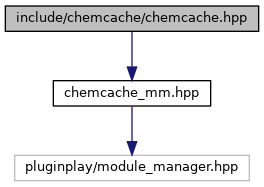
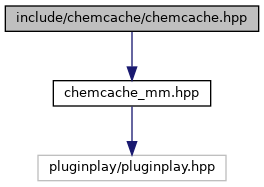
deploy: f8950fc84023ece8e662c6afa4f4c176a53c98dd

Changed region(s): [[0.0303, 0.8289, 0.9697, 0.9893]]

diff --git a/chemcache_cxx_api/chemcache__mm_8hpp_source.html b/chemcache_cxx_api/chemcache__mm_8hpp_source.html
@@ -22,7 +22,7 @@
  <tr style="height: 56px;">
   <td id="projectalign" style="padding-left: 0.5em;">
    <div id="projectname">chemcache
-   &#160;<span id="projectnumber">1.0.6</span>
+   &#160;<span id="projectnumber">1.0.7</span>
    </div>
   </td>
  </tr>
@@ -87,7 +87,7 @@ $(function() {
 <div class="line"><a name="l00015"></a><span class="lineno">   15</span>&#160;<span class="comment"> */</span></div>
 <div class="line"><a name="l00016"></a><span class="lineno">   16</span>&#160; </div>
 <div class="line"><a name="l00017"></a><span class="lineno">   17</span>&#160;<span class="preprocessor">#pragma once</span></div>
-<div class="line"><a name="l00018"></a><span class="lineno">   18</span>&#160;<span class="preprocessor">#include &lt;pluginplay/module_manager.hpp&gt;</span></div>
+<div class="line"><a name="l00018"></a><span class="lineno">   18</span>&#160;<span class="preprocessor">#include &lt;pluginplay/pluginplay.hpp&gt;</span></div>
 <div class="line"><a name="l00019"></a><span class="lineno">   19</span>&#160; </div>
 <div class="line"><a name="l00020"></a><span class="lineno">   20</span>&#160;<span class="keyword">namespace </span>chemcache {</div>
 <div class="line"><a name="l00024"></a><span class="lineno">   24</span>&#160;<span class="keywordtype">void</span> load_modules(pluginplay::ModuleManager&amp; mm);</div>

diff --git a/chemcache_cxx_api/chemcache_8hpp.html b/chemcache_cxx_api/chemcache_8hpp.html
@@ -22,7 +22,7 @@
  <tr style="height: 56px;">
   <td id="projectalign" style="padding-left: 0.5em;">
    <div id="projectname">chemcache
-   &#160;<span id="projectnumber">1.0.6</span>
+   &#160;<span id="projectnumber">1.0.7</span>
    </div>
   </td>
  </tr>
@@ -78,7 +78,7 @@ Include dependency graph for chemcache.hpp:</div>
 <map name="ainclude_2chemcache_2chemcache_8hpp" id="ainclude_2chemcache_2chemcache_8hpp">
 <area shape="rect" title=" " alt="" coords="5,5,259,32"/>
 <area shape="rect" href="chemcache__mm_8hpp_source.html" title=" " alt="" coords="53,80,211,107"/>
-<area shape="rect" title=" " alt="" coords="15,155,249,181"/>
+<area shape="rect" title=" " alt="" coords="38,155,226,181"/>
 </map>
 </div>
 </div>

diff --git a/chemcache_cxx_api/atoms_8hpp_source.html b/chemcache_cxx_api/atoms_8hpp_source.html
@@ -22,7 +22,7 @@
  <tr style="height: 56px;">
   <td id="projectalign" style="padding-left: 0.5em;">
    <div id="projectname">chemcache
-   &#160;<span id="projectnumber">1.0.6</span>
+   &#160;<span id="projectnumber">1.0.7</span>
    </div>
   </td>
  </tr>

diff --git a/chemcache_cxx_api/bases_8hpp_source.html b/chemcache_cxx_api/bases_8hpp_source.html
@@ -22,7 +22,7 @@
  <tr style="height: 56px;">
   <td id="projectalign" style="padding-left: 0.5em;">
    <div id="projectname">chemcache
-   &#160;<span id="projectnumber">1.0.6</span>
+   &#160;<span id="projectnumber">1.0.7</span>
    </div>
   </td>
  </tr>

diff --git a/chemcache_cxx_api/chemcache_8hpp_source.html b/chemcache_cxx_api/chemcache_8hpp_source.html
@@ -22,7 +22,7 @@
  <tr style="height: 56px;">
   <td id="projectalign" style="padding-left: 0.5em;">
    <div id="projectname">chemcache
-   &#160;<span id="projectnumber">1.0.6</span>
+   &#160;<span id="projectnumber">1.0.7</span>
    </div>
   </td>
  </tr>

diff --git a/chemcache_cxx_api/dir_000007_000000.html b/chemcache_cxx_api/dir_000007_000000.html
@@ -22,7 +22,7 @@
  <tr style="height: 56px;">
   <td id="projectalign" style="padding-left: 0.5em;">
    <div id="projectname">chemcache
-   &#160;<span id="projectnumber">1.0.6</span>
+   &#160;<span id="projectnumber">1.0.7</span>
    </div>
   </td>
  </tr>

diff --git a/chemcache_cxx_api/dir_11f602d4b515a21ea0357b473be91e52.html b/chemcache_cxx_api/dir_11f602d4b515a21ea0357b473be91e52.html
@@ -22,7 +22,7 @@
  <tr style="height: 56px;">
   <td id="projectalign" style="padding-left: 0.5em;">
    <div id="projectname">chemcache
-   &#160;<span id="projectnumber">1.0.6</span>
+   &#160;<span id="projectnumber">1.0.7</span>
    </div>
   </td>
  </tr>

diff --git a/chemcache_cxx_api/dir_34c2ada6848f39a793a5497f8054991c.html b/chemcache_cxx_api/dir_34c2ada6848f39a793a5497f8054991c.html
@@ -22,7 +22,7 @@
  <tr style="height: 56px;">
   <td id="projectalign" style="padding-left: 0.5em;">
    <div id="projectname">chemcache
-   &#160;<span id="projectnumber">1.0.6</span>
+   &#160;<span id="projectnumber">1.0.7</span>
    </div>
   </td>
  </tr>

diff --git a/chemcache_cxx_api/dir_4b89d5c5ca58a72c7c6fb7ff137bd9b5.html b/chemcache_cxx_api/dir_4b89d5c5ca58a72c7c6fb7ff137bd9b5.html
@@ -22,7 +22,7 @@
  <tr style="height: 56px;">
   <td id="projectalign" style="padding-left: 0.5em;">
    <div id="projectname">chemcache
-   &#160;<span id="projectnumber">1.0.6</span>
+   &#160;<span id="projectnumber">1.0.7</span>
    </div>
   </td>
  </tr>

diff --git a/chemcache_cxx_api/dir_5c0d64f70903e893b1efe571a4b8de29.html b/chemcache_cxx_api/dir_5c0d64f70903e893b1efe571a4b8de29.html
@@ -22,7 +22,7 @@
  <tr style="height: 56px;">
   <td id="projectalign" style="padding-left: 0.5em;">
    <div id="projectname">chemcache
-   &#160;<span id="projectnumber">1.0.6</span>
+   &#160;<span id="projectnumber">1.0.7</span>
    </div>
   </td>
  </tr>

diff --git a/chemcache_cxx_api/dir_6467658e825f7d3794d6991e544adeb8.html b/chemcache_cxx_api/dir_6467658e825f7d3794d6991e544adeb8.html
@@ -22,7 +22,7 @@
  <tr style="height: 56px;">
   <td id="projectalign" style="padding-left: 0.5em;">
    <div id="projectname">chemcache
-   &#160;<span id="projectnumber">1.0.6</span>
+   &#160;<span id="projectnumber">1.0.7</span>
    </div>
   </td>
  </tr>

diff --git a/chemcache_cxx_api/dir_68267d1309a1af8e8297ef4c3efbcdba.html b/chemcache_cxx_api/dir_68267d1309a1af8e8297ef4c3efbcdba.html
@@ -22,7 +22,7 @@
  <tr style="height: 56px;">
   <td id="projectalign" style="padding-left: 0.5em;">
    <div id="projectname">chemcache
-   &#160;<span id="projectnumber">1.0.6</span>
+   &#160;<span id="projectnumber">1.0.7</span>
    </div>
   </td>
  </tr>
